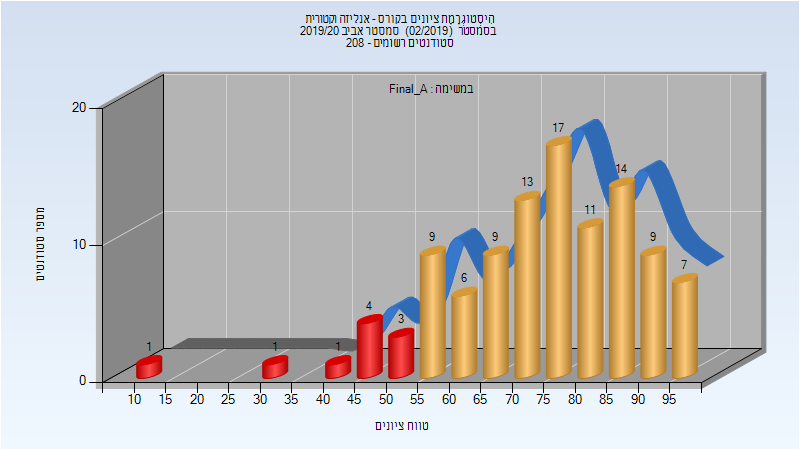
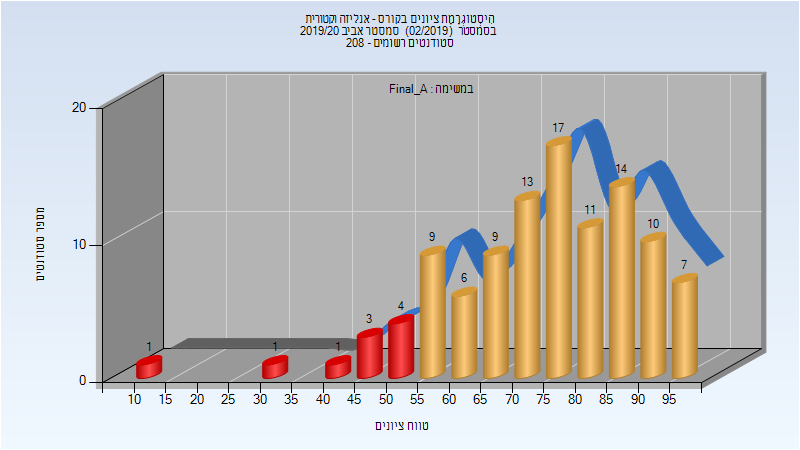
Deploy michael-maltsev/technion-histograms to github.com/michael-maltsev/technion-histograms.git:gh-pages

diff --git a/104033/index.html b/104033/index.html
@@ -1008,12 +1008,12 @@
 </thead>
 <tbody>
 <tr>
-<td>105</td>
-<td>81/24</td>
+<td>106</td>
+<td>82/24</td>
 <td>77</td>
 <td>12</td>
 <td>98</td>
-<td>68.629</td>
+<td>68.84</td>
 <td>70</td>
 </tr>
 </tbody>
@@ -1034,12 +1034,12 @@
 </thead>
 <tbody>
 <tr>
-<td>105</td>
-<td>95/10</td>
-<td>90</td>
+<td>106</td>
+<td>96/10</td>
+<td>91</td>
 <td>13</td>
 <td>98</td>
-<td>74.219</td>
+<td>74.443</td>
 <td>76</td>
 </tr>
 </tbody>

diff --git a/104033/README.md b/104033/README.md
@@ -316,7 +316,7 @@
 
 | סטודנטים | עברו/נכשלו | אחוז עוברים | ציון מינימלי | ציון מקסימלי | ממוצע | חציון |
 | ---- | ---- | ---- | ---- | ---- | ---- | ---- |
-| 105 | 81/24 | 77 | 12 | 98 | 68.629 | 70 |
+| 106 | 82/24 | 77 | 12 | 98 | 68.84 | 70 |
 
 ### סופי מועד א'
 
@@ -324,5 +324,5 @@
 
 | סטודנטים | עברו/נכשלו | אחוז עוברים | ציון מינימלי | ציון מקסימלי | ממוצע | חציון |
 | ---- | ---- | ---- | ---- | ---- | ---- | ---- |
-| 105 | 95/10 | 90 | 13 | 98 | 74.219 | 76 |
+| 106 | 96/10 | 91 | 13 | 98 | 74.443 | 76 |
 
